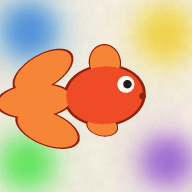
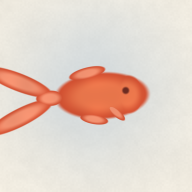
金魚をアプリ本編と同じ水彩にじみ調のコーラル金魚に作り直す
Ryo指摘: 前版のカートゥーン硬線+虹色はアプリのイメージと違う。参考画像
（本編に泳ぐ柔らかいコーラル色の金魚+淡い青い水のにじみ+和紙）に合わせる。
- 金魚: 水彩にじみ調（縁に色が溜まるプール表現）で、横長しずく胴+付け根から
  上下に開く二股の扇尾びれ+細く後方へ流すひれ。耳/手足/ソーセージに見えた
  失敗を経て、水平向き+繋がった扇尾に確定
- 背景: 和紙+中央の淡い青い水のにじみのみ（虹色の滴は廃止）
先入観なしの第三者判定2件が180/512pxとも「金魚・確信度高」で一致後に配信。
sw.js CACHE v17。

diff --git a/sw.js b/sw.js
@@ -1,6 +1,6 @@
 // すみながし Service Worker — オフラインでも遊べるように全アセットをキャッシュ
 // HTML はネットワーク優先（更新が1回の起動で届く）・静的アセットはキャッシュ優先
-const CACHE = "suminagashi-v16";
+const CACHE = "suminagashi-v17";
 const ASSETS = [
   "./",
   "./index.html",

diff --git a/gen_icons.py b/gen_icons.py
@@ -1,64 +1,51 @@
 #!/usr/bin/env python3
 """すみながしアプリのアイコンPNGを生成する（標準ライブラリのみ・Pillow不要）。
 
-「一目で金魚と分かる」ことを最優先に、輪郭のはっきりした金魚を描く:
-和紙＋ごく薄い色の水（はなやかモードの雰囲気）の上に、大きな赤い金魚
-（卵型の胴 + 大きく広がる扇の尾びれ + 背びれ + 目 + 縁取り）をくっきり描画。
-背景の水は柔らかいにじみ（吸収モデル）、金魚はスーパーサンプリングでアンチ
-エイリアスした明確なシルエット。icon-180 / icon-192 / icon-512 を出力する。
+アプリ本編に泳ぐ金魚と同じ「やわらかい水彩・墨にじみ調」のコーラル色の金魚を、
+和紙＋淡い青い水のにじみの上に描く。輪郭はカートゥーン風の硬い線ではなく、
+水彩のように少しにじむが、しずく型の胴＋流れる二股の尾びれという上品で明確な
+シルエットで「金魚」と分かるようにする。icon-180 / icon-192 / icon-512 を出力。
 """
 import math
 import struct
 import zlib
 
-PAPER = (0.945, 0.922, 0.871)
-ABSORB_K = 2.6
-MUD_CUT = 0.75
-DISP_MAX = 0.55
+PAPER = (0.952, 0.930, 0.882)        # 和紙の生成り
+WATER = (0.66, 0.75, 0.84)           # 淡い青い水のにじみ
+WATER_C = (0.50, 0.46)               # 水のにじみの中心（やや上）
+WATER_R = 0.42                       # 水のにじみの広がり
+WATER_STRENGTH = 0.42
 
-# 背景の水（はなやかモードの INKS と同一の吸収ベクトル・黒なし）
-AO = (1.05, 0.50, 0.06)        # あお
-KIIRO = (0.03, 0.14, 1.10)     # きいろ
-MIDORI = (0.95, 0.10, 0.90)    # みどり
-MURASAKI = (0.60, 1.00, 0.22)  # むらさき
+# 金魚の色（水彩コーラル・黒も硬い縁取りも使わない）
+BODY_COL = (0.93, 0.47, 0.30)        # 胴体（コーラル橙）
+FIN_COL = (0.95, 0.57, 0.44)         # 尾びれ・ひれ（明るいサーモンで透け感）
+RIM_COL = (0.82, 0.31, 0.19)         # 縁ににじみが溜まる深い橙（水彩の縁プール）
+EYE_COL = (0.42, 0.17, 0.13)         # 目（ごく小さな暗色の点）
 
-# 四隅にごく薄い色の水（金魚を主役にするため控えめ）
-DROPS = [
-    (0.15, 0.16, 0.150, 0.30, AO, 0.7),
-    (0.86, 0.18, 0.145, 0.28, KIIRO, 2.9),
-    (0.14, 0.85, 0.140, 0.28, MIDORI, 1.8),
-    (0.87, 0.84, 0.135, 0.26, MURASAKI, 5.1),
+# 金魚の配置（横向き・頭は右／尾は左。ほぼ水平にして「耳」化を断つ）
+FISH_C = (0.50, 0.50)
+FISH_ANGLE = -0.05                   # rad（ほぼ水平・頭がほんの少し上）
+FISH_SCALE = 0.80
+FEATHER = 0.072                      # 縁のにじみ幅（小=くっきり / 大=やわらか）
+
+# ローカル座標（頭=+x 右向き・原点=胴中心）でのパーツ:
+# (cx, cy, rx, ry, theta, category) category: 'body' or 'fin'
+# 尾は1つの繋がった扇（fan）を後方へ長く流し、先端2点で二股を示唆。ひれは細く後方へ流す
+# （丸い突起が手足に見えないように）
+BODY_PARTS = [
+    (0.04, 0.00, 0.300, 0.150, 0.0, 'body'),  # 胴体（横長しずく型・後方へ細る）
+    (0.20, 0.00, 0.115, 0.125, 0.0, 'body'),  # 頭側をやや丸く
 ]
-
-# 金魚（直接RGBで合成・くっきり）。赤金魚。
-FISH_BODY = (0.93, 0.30, 0.15)   # 胴体（朱赤）
-FISH_FIN = (0.97, 0.52, 0.22)    # ひれ・尾びれ（明るい橙でひらひら感）
-FISH_LINE = (0.58, 0.13, 0.06)   # 縁取り（深い赤・黒は使わない）
-EYE_WHITE = (0.99, 0.98, 0.95)
-EYE_PUPIL = (0.16, 0.10, 0.09)   # 瞳（ごく小さい暗色・目の表現に限定）
-
-FISH_TILT = -0.08          # やや頭上がり
-FISH_CX, FISH_CY = 0.50, 0.50
-OUTLINE = 1.075            # 縁取りのためのシルエット膨張率
-
-# 胴体: (cx, cy, rx, ry, theta)
-BODY = (0.545, 0.500, 0.200, 0.150, 0.0)
-# ひれ・尾びれ（胴体の後ろ＝左に大きな扇）
-FINS = [
-    (0.235, 0.350, 0.165, 0.082, -0.46),  # 尾びれ上ろう
-    (0.180, 0.500, 0.190, 0.086,  0.00),  # 尾びれ中ろう（大きく後ろへ）
-    (0.235, 0.650, 0.165, 0.082,  0.46),  # 尾びれ下ろう
-    (0.560, 0.330, 0.078, 0.090, -0.05),  # 背びれ（上へ）
-    (0.520, 0.658, 0.078, 0.050,  0.28),  # 腹びれ（下へ）
+FIN_PARTS = [
+    (-0.30,  0.000, 0.090, 0.050, 0.00, 'fin'),  # 尾の付け根（胴と扇を繋ぐ・細い）
+    (-0.50, -0.115, 0.235, 0.058, 0.42, 'fin'),  # 尾びれ上ろう（付け根から上へ開く扇）
+    (-0.50,  0.115, 0.235, 0.058, -0.42, 'fin'), # 尾びれ下ろう（付け根から下へ開く扇）
+    (-0.05, -0.150, 0.120, 0.038, -0.20, 'fin'), # 背びれ（細く後方へ流す）
+    (-0.02,  0.150, 0.092, 0.032,  0.22, 'fin'), # 腹びれ（細く後方へ）
+    (0.12,   0.108, 0.082, 0.026,  0.78, 'fin'), # 胸びれ（細く後ろ下へ流す）
 ]
-EYE = (0.660, 0.452, 0.044)    # 白目
-PUPIL = (0.668, 0.452, 0.022)  # 瞳
-# 口: 頭の先のごく小さなくぼみ（縁取り色の点）
-MOUTH = (0.742, 0.520, 0.018)
-
-# 金魚を含むおおよその範囲（ここだけスーパーサンプリングする）
-FISH_BBOX = (0.00, 0.84, 0.20, 0.80)
-SS = 3  # スーパーサンプリング（3x3）
+EYE_LOCAL = (0.195, -0.026, 0.023)   # 目（ローカル座標・半径）
+SS = 3
 
 
 def hash01(ix, iy):
@@ -77,97 +64,88 @@ def vnoise(x, y):
     return a + (b - a) * fx + (c - a) * fy + (a - b - c + d) * fx * fy
 
 
+def smoothstep(e0, e1, x):
+    if e0 == e1:
+        return 0.0 if x < e0 else 1.0
+    t = (x - e0) / (e1 - e0)
+    t = max(0.0, min(1.0, t))
+    return t * t * (3 - 2 * t)
+
+
 def bg_color(u, v, px, py):
-    """背景（和紙 + ごく薄い色の水）の色 0..1。柔らかいので1サンプルで十分。"""
-    fiber = (vnoise(u * 6, v * 6) * 0.45 + vnoise(u * 25, v * 25) * 0.35
-             + vnoise(u * 110, v * 110) * 0.20)
+    """和紙 + 淡い青い水のにじみ。"""
+    fiber = (vnoise(u * 6, v * 6) * 0.45 + vnoise(u * 24, v * 24) * 0.35
+             + vnoise(u * 105, v * 105) * 0.20)
     speck = hash01(px // 2, py // 2)
-    shade = 0.965 + 0.055 * fiber + 0.012 * speck
-    dens = [0.0, 0.0, 0.0]
-    for (cx, cy, r, amp, absorb, phase) in DROPS:
-        dx, dy = u - cx, v - cy
-        d2 = dx * dx + dy * dy
-        if d2 > (r * 2.4) ** 2:
-            continue
-        dn = math.sqrt(d2) / r
-        g = amp * (math.exp(-dn ** 2.4) + 0.28 * math.exp(-((dn / 1.35) ** 2.0)))
-        for i in range(3):
-            dens[i] += absorb[i] * g
-    mud = min(dens)
-    dens = [min(max(0.0, d - MUD_CUT * mud), DISP_MAX) for d in dens]
-    return [PAPER[i] * shade * math.exp(-ABSORB_K * dens[i]) for i in range(3)]
+    shade = 0.965 + 0.05 * fiber + 0.012 * speck
+    col = [PAPER[i] * shade for i in range(3)]
+    d = math.hypot(u - WATER_C[0], v - WATER_C[1])
+    # にじみのムラ（水彩らしく不均一に）
+    wob = 0.85 + 0.30 * vnoise(u * 4 + 3.1, v * 4 + 7.7)
+    w = WATER_STRENGTH * math.exp(-((d / WATER_R) ** 2.2)) * wob
+    w = max(0.0, min(WATER_STRENGTH, w))
+    return [col[i] * (1 - w) + WATER[i] * w for i in range(3)]
 
 
-def _ell(u, v, cx, cy, rx, ry, th):
-    """楕円の正規化距離の2乗（<=1 で内側）。"""
-    dx, dy = u - cx, v - cy
+def _nd(lx, ly, cx, cy, rx, ry, th):
+    """ローカル点(lx,ly)の楕円正規化距離（1で縁）。"""
+    dx, dy = lx - cx, ly - cy
     c, s = math.cos(th), math.sin(th)
+    ex = dx * c + dy * s
+    ey = -dx * s + dy * c
+    return math.sqrt((ex / rx) ** 2 + (ey / ry) ** 2)
+
+
+def fish_pixel(u, v, base):
+    """背景色 base の上に金魚を水彩調で合成して返す。"""
+    # グローバル→ローカル（頭=+x）
+    c, s = math.cos(FISH_ANGLE), math.sin(FISH_ANGLE)
+    dx, dy = (u - FISH_C[0]) / FISH_SCALE, (v - FISH_C[1]) / FISH_SCALE
     lx = dx * c + dy * s
     ly = -dx * s + dy * c
-    return (lx / rx) ** 2 + (ly / ry) ** 2
 
+    nd_body = min((_nd(lx, ly, *p[:5]) for p in BODY_PARTS), default=9.9)
+    nd_fin = min((_nd(lx, ly, *p[:5]) for p in FIN_PARTS), default=9.9)
+    nd_min = min(nd_body, nd_fin)
+    cov = smoothstep(1.0 + FEATHER, 1.0 - FEATHER, nd_min)
+    if cov <= 0.0:
+        return base
 
-def fish_layer(u, v):
-    """点(u,v)の金魚レイヤーを返す。None=金魚外 / 'line'|'fin'|'body'|'eye'|'pupil'。"""
-    # 金魚中心まわりで逆回転（全体の傾き）
-    ct, st = math.cos(-FISH_TILT), math.sin(-FISH_TILT)
-    ru = FISH_CX + (u - FISH_CX) * ct - (v - FISH_CY) * st
-    rv = FISH_CY + (u - FISH_CX) * st + (v - FISH_CY) * ct
+    base_col = BODY_COL if nd_body <= nd_fin else FIN_COL
+    # 縁に深い色が溜まる水彩プール（中心=本来色 / 縁=深い橙）
+    core = smoothstep(1.0, 0.45, nd_min)
+    col = [RIM_COL[i] + (base_col[i] - RIM_COL[i]) * core for i in range(3)]
+    # 内部の淡いムラ（紙に染みた感じ）
+    mott = 0.96 + 0.07 * vnoise(lx * 9 + 11.0, ly * 9 + 5.0)
+    col = [col[i] * mott for i in range(3)]
+    # 目（小さな暗点・胴の上）
+    ed = math.hypot(lx - EYE_LOCAL[0], ly - EYE_LOCAL[1])
+    if ed < EYE_LOCAL[2] * 1.6:
+        ecov = smoothstep(EYE_LOCAL[2] * 1.3, EYE_LOCAL[2] * 0.6, ed)
+        col = [col[i] + (EYE_COL[i] - col[i]) * ecov for i in range(3)]
 
-    # 目（胴体より前面）
-    if (ru - PUPIL[0]) ** 2 + (rv - PUPIL[1]) ** 2 <= PUPIL[2] ** 2:
-        return 'pupil'
-    if (ru - EYE[0]) ** 2 + (rv - EYE[1]) ** 2 <= EYE[2] ** 2:
-        return 'eye'
-    # 口（縁取り色の小点）
-    if (ru - MOUTH[0]) ** 2 + (rv - MOUTH[1]) ** 2 <= MOUTH[2] ** 2:
-        return 'line'
-
-    in_body = _ell(ru, rv, *BODY) <= 1.0
-    if in_body:
-        return 'body'
-    for f in FINS:
-        if _ell(ru, rv, *f) <= 1.0:
-            return 'fin'
-    # 縁取り（シルエットを膨張させた外周リング）
-    o2 = OUTLINE ** 2
-    if _ell(ru, rv, *BODY) <= o2:
-        return 'line'
-    for f in FINS:
-        if _ell(ru, rv, *f) <= o2:
-            return 'line'
-    return None
-
-
-LAYER_COLOR = {
-    'line': FISH_LINE, 'fin': FISH_FIN, 'body': FISH_BODY,
-    'eye': EYE_WHITE, 'pupil': EYE_PUPIL,
-}
+    return [base[i] * (1 - cov) + col[i] * cov for i in range(3)]
 
 
 def render(size):
     rows = []
     inv = 1.0 / size
-    bx0, bx1, by0, by1 = FISH_BBOX
     for py in range(size):
         row = bytearray()
-        row.append(0)  # PNG filter: None
-        v = (py + 0.5) * inv
+        row.append(0)
         for px in range(size):
             u = (px + 0.5) * inv
+            v = (py + 0.5) * inv
             base = bg_color(u, v, px, py)
-            if bx0 <= u <= bx1 and by0 <= v <= by1:
-                # 金魚周辺はスーパーサンプリングでアンチエイリアス
-                acc = [0.0, 0.0, 0.0]
-                for sy in range(SS):
-                    for sx in range(SS):
-                        su = (px + (sx + 0.5) / SS) * inv
-                        sv = (py + (sy + 0.5) / SS) * inv
-                        lay = fish_layer(su, sv)
-                        col = LAYER_COLOR[lay] if lay else base
-                        acc[0] += col[0]; acc[1] += col[1]; acc[2] += col[2]
-                n = SS * SS
-                base = [acc[0] / n, acc[1] / n, acc[2] / n]
+            acc = [0.0, 0.0, 0.0]
+            for sy in range(SS):
+                for sx in range(SS):
+                    su = (px + (sx + 0.5) / SS) * inv
+                    sv = (py + (sy + 0.5) / SS) * inv
+                    col = fish_pixel(su, sv, base)
+                    acc[0] += col[0]; acc[1] += col[1]; acc[2] += col[2]
+            n = SS * SS
+            base = [acc[0] / n, acc[1] / n, acc[2] / n]
             row += bytes(max(0, min(255, round(base[i] * 255))) for i in range(3)) + b"\xff"
         rows.append(bytes(row))
     return b"".join(rows)
